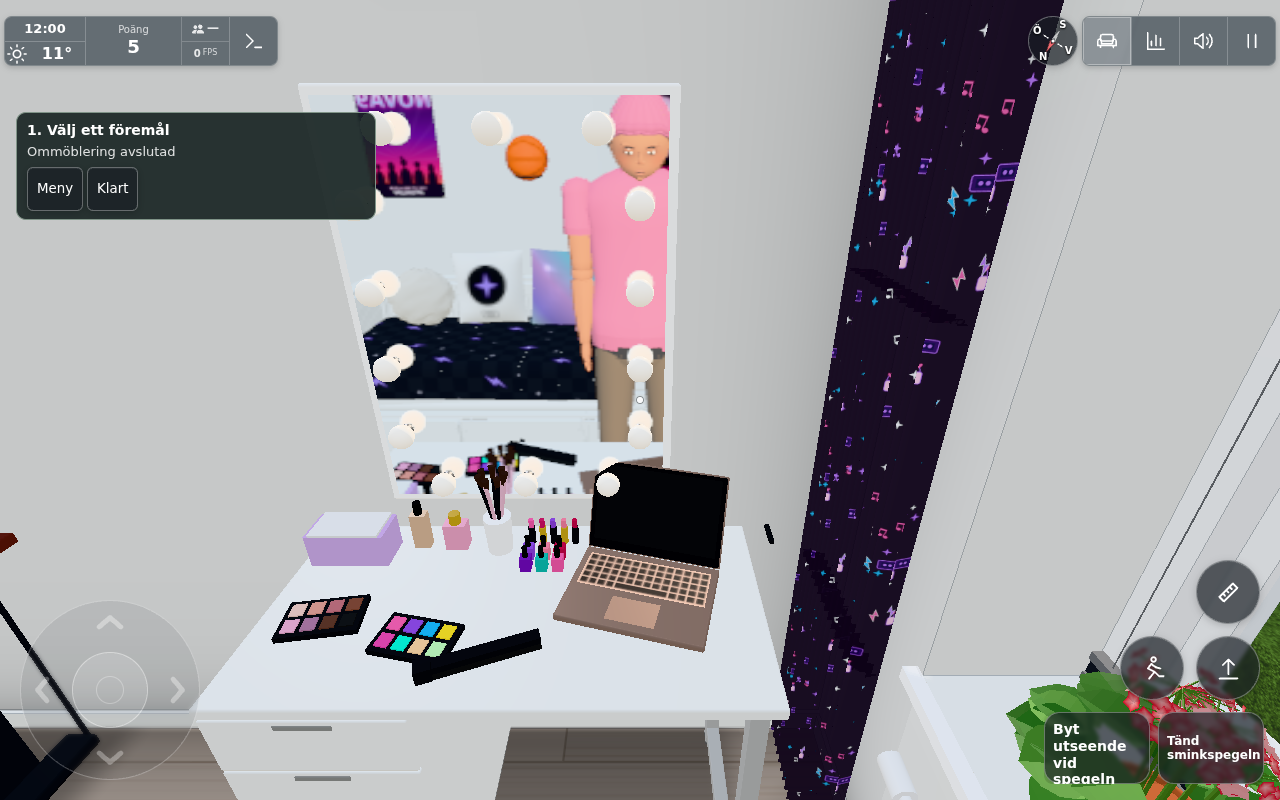
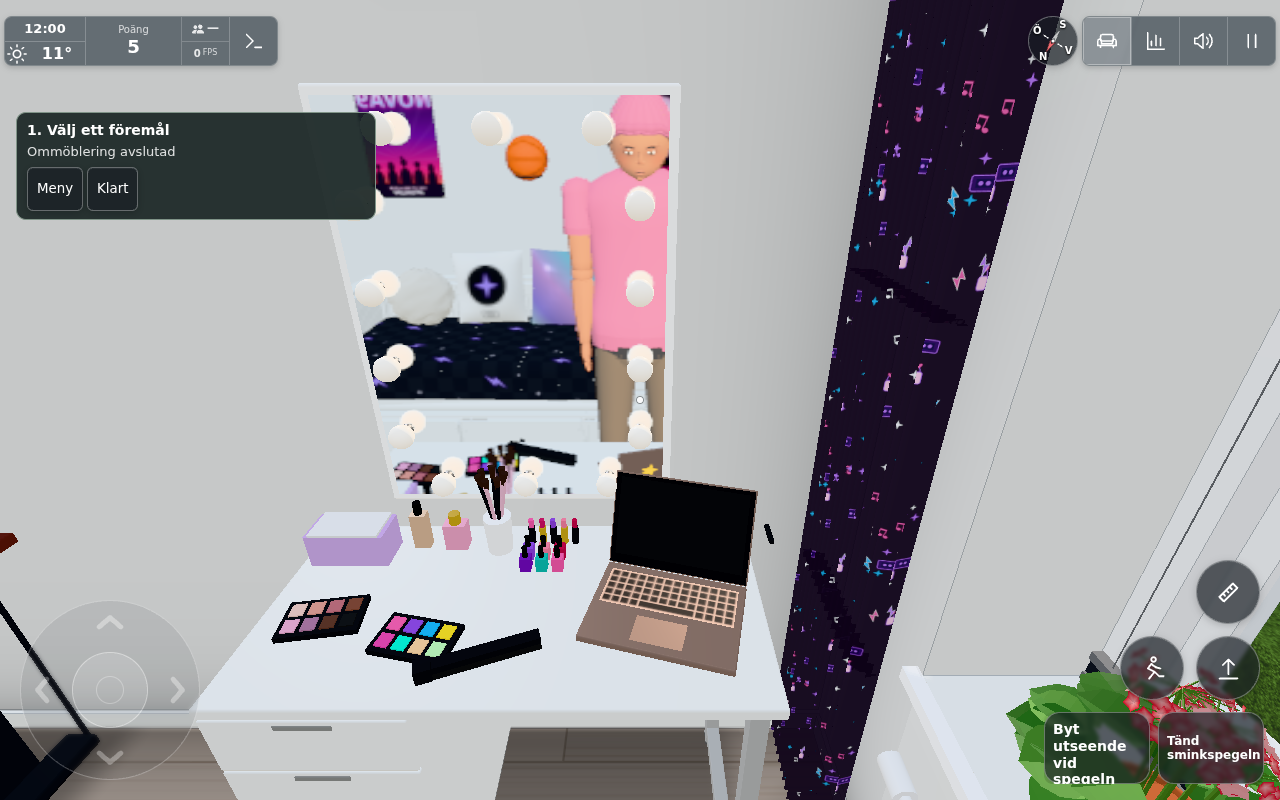
Refresh verified laptop return image (Refs #1563)

Changed region(s): [[0.4375, 0.5625, 0.5938, 0.8438]]

diff --git a/docs/verification/1563/README.md b/docs/verification/1563/README.md
@@ -6,12 +6,14 @@ En separat osynlig yta täcker lämpliga mittpunkter på bordets fria högra del
 
 ![Datorn tillbaka på sminkbordet](laptop-tillbaka-pa-sminkbordet.png)
 
[1 lines of base64/hex data omitted]
+
 ## Avgränsad verifiering
 
 - Verklig lokal Chromium-app, `?cloud=&shot&test=lazy&time=12&freeze&mess=0`, port 8363. Profilvalet stängdes med **Hoppa över** före kontroll och bild. Inga originaltjänster användes.
 - Den första funktionskörningen flyttade laptopen från golvets 3,25 m tillbaka till avställningsytans 4,01 m via faktisk rayträff och giltig förhandsvisning. Två lokala sparningar gav revision 2; `groupFor(vanity)` innehöll därefter både sminkbordet och laptopen. Inga sidfel. Råresultat i `/tmp/orkester-codex-20261024/verify1563/result.json`.
 - Appens touchknapp valde och bekräftade placering på bordet (revision 3). Efter byte till musläge med verkligt Pointer Lock valde och bekräftade E samma placeringsyta (revision 4). E ignoreras avsiktligt i touchläge.
-- Slutlig kantkontroll i verkliga appen: [edge.json](edge.json) visar giltig kandidat på 4,01 m vid 0°, 45° och 90° relativt valt ursprungsläge samt från motsatt kameravinkel. Alla fyra hörn för bas och öppet lock ligger inom fri skiva. En ray på ytans yttre hörn får ogiltig kandidat efter snappning: x når lokalt 0,542 m utanför gränsen 0,495 m. Inga sidfel.
+- Slutlig kantkontroll i verkliga appen: [edge.json](edge.json) visar giltig kandidat på 4,01 m vid 0°, 45° och 90° extra vridning från laptopens ursprungsriktning samt från motsatt kameravinkel. Alla fyra hörn för bas och öppet lock ligger inom fri skiva. En ray på ytans yttre hörn får ogiltig kandidat efter snappning: x når lokalt 0,542 m utanför gränsen 0,495 m. Inga sidfel.
 - Det enda befintliga följdprovet [rearrangeplacementtest.log](rearrangeplacementtest.log) passerade alla 15 kontroller, inklusive Symfonisk på fönsterbänk/bord, `groupFor(table)`, sparning och omladdning. `rearrangeSurfaces ?? []` håller äldre fixtureworld utan det nya valfria fältet fungerande.
 - Datorhörnans och stolens kollision är oförändrad: `src/tillydesk.js` och `TILLY_DESK`-delen i `src/config.js` är oförändrade från [#1557:s uppmätta kontroll](../1557/README.md). Den nya ytan är osynlig och saknar footprint, skuggor och fysikkollision.
 
